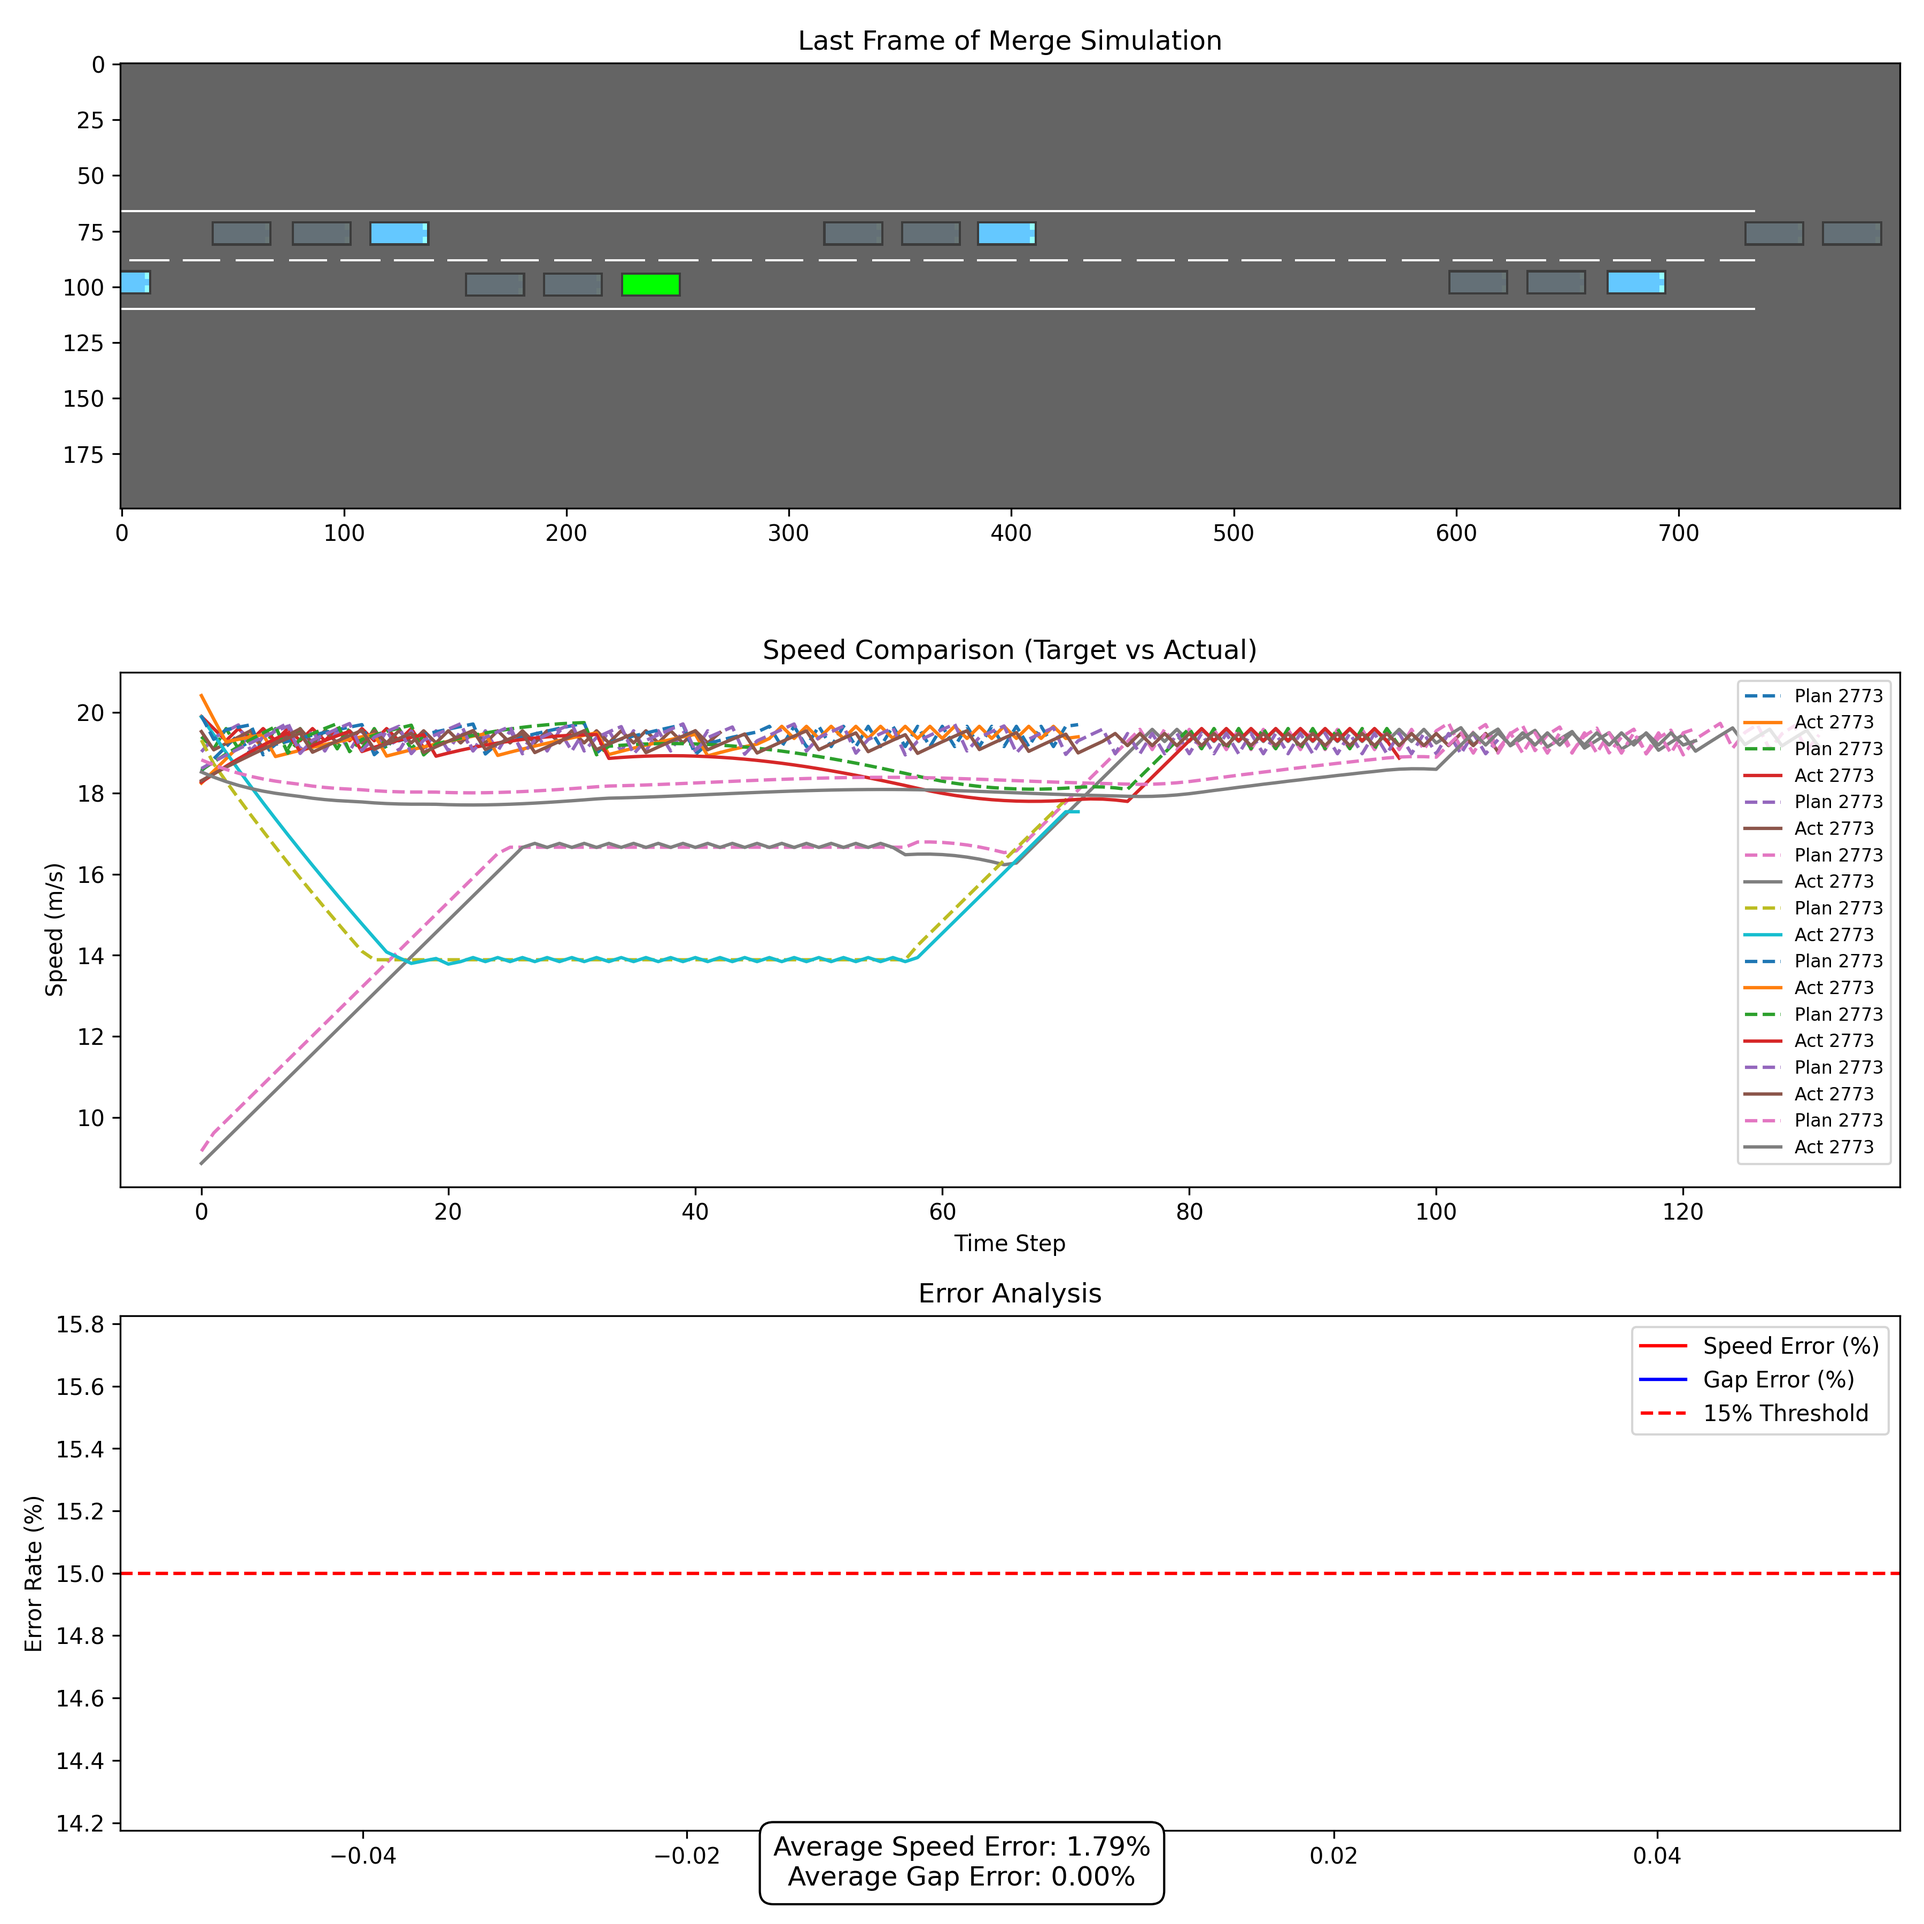
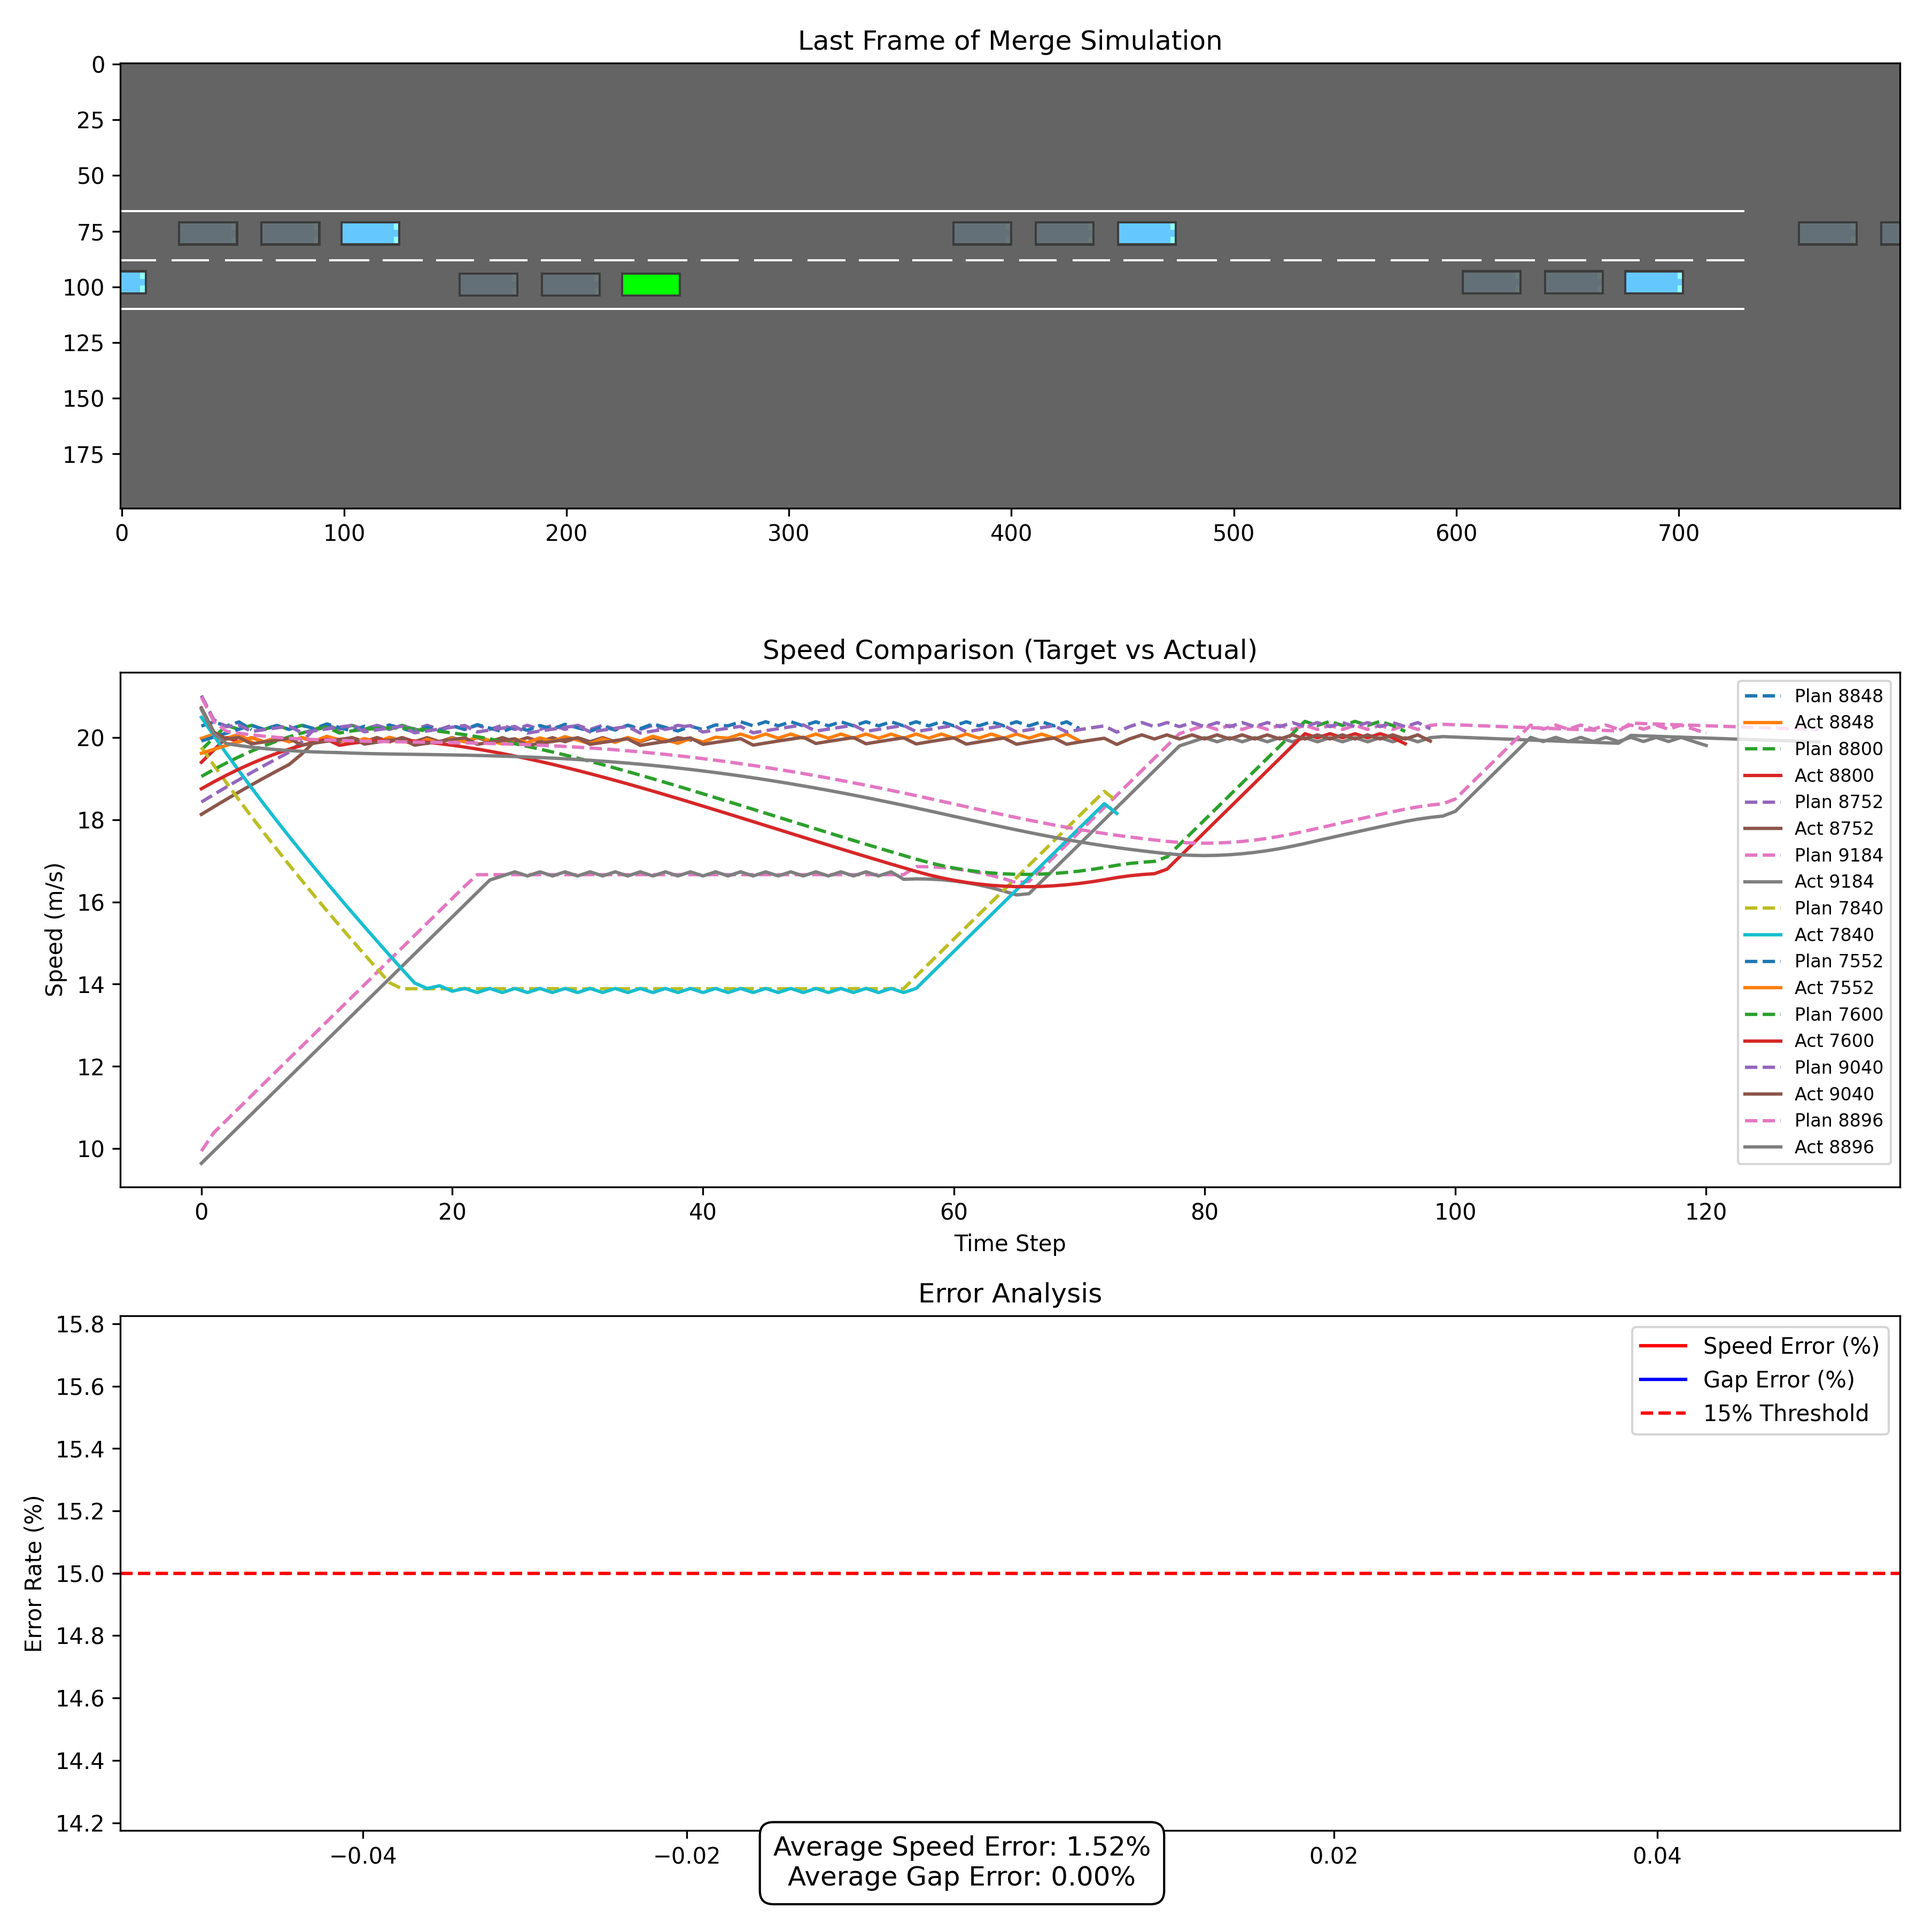
视频输出功能，车道随机功能

diff --git a/main.py b/main.py
@@ -4,6 +4,7 @@ from controller import RoadsideController
 import matplotlib.pyplot as plt
 import imageio
 from highway_env.envs.merge_v1 import MergeEnvV1
+import os
 
 def run_simulation():
     env = gymnasium.make(
@@ -31,7 +32,13 @@ def run_simulation():
         }
     )
 
+    video_folder = os.path.join(os.path.dirname(__file__), "videos")
     env.unwrapped.__class__ = MergeEnvV1
+    env = gymnasium.wrappers.RecordVideo(
+        env,
+        video_folder = video_folder,
+        episode_trigger=lambda episode_id: True
+    )
     obs, info = env.reset()
 
     ego_vehicle = env.unwrapped.vehicle
@@ -91,8 +98,8 @@ def run_simulation():
             planned = [v[1] if isinstance(v, tuple) else v for v in history['planned_speeds'][vehicle_id]]
             actual = [v[1] if isinstance(v, tuple) else v for v in history['actual_speeds'][vehicle_id]]
             t = list(range(len(planned)))
-            axes[1].plot(t, planned, '--', label=f"Plan {str(vehicle_id)[:4]}")
-            axes[1].plot(t[:len(actual)], actual, '-', label=f"Act {str(vehicle_id)[:4]}")
+            axes[1].plot(t, planned, '--', label=f"Plan {str(vehicle_id)[-4:]}")
+            axes[1].plot(t[:len(actual)], actual, '-', label=f"Act {str(vehicle_id)[-4:]}")
     axes[1].legend(loc='upper right', fontsize=8)
 
     # 3. 误差分析
@@ -119,6 +126,8 @@ def run_simulation():
     plt.savefig("merge_analysis.png", dpi=300)
     plt.show()
 
+    env.close()
+    
     print(f"Simulation completed with {len(frames)} frames.")
     print(f"Average Speed Error: {avg_speed_error:.2f}%")
     print(f"Average Gap Error: {avg_gap_error:.2f}%")

diff --git a/highway_env/envs/merge_v1.py b/highway_env/envs/merge_v1.py
@@ -15,18 +15,16 @@ class MergeEnvV1(MergeEnv):
         road.vehicles.append(ego_vehicle)
         ego_vehicle.color = (0, 255, 0)
         # 主干道车辆，速度范围70~90km/h
-        main_positions = [390, 350, 300,260,220 ,190, 150, 120, 90, 50, 30, 5]  # 可根据需要调整数量和分布
+        main_positions = [390, 350, 300, 260, 220, 190, 150, 120, 90, 50, 30, 5]  # 可根据需要调整数量和分布
         i = 0
         for position in main_positions:
-            #如果i是基数，那么lane为0，否则lane为1
-            if i % 2 == 0:
-                lane = road.network.get_lane(("a", "b", 0))
-            else:
-                lane = road.network.get_lane(("a", "b", 1))
+            # 新增：随机选择lane为0或1
+            lane_index = self.np_random.integers(0, 2)
+            lane = road.network.get_lane(("a", "b", lane_index))
             pos = lane.position(position + self.np_random.uniform(-5, 5), 0)
             speed = self.np_random.uniform(65, 75) / 3.6  # 70~90 km/h
             road.vehicles.append(other_vehicles_type(road, pos, speed=speed))
-            i+=1
+            i += 1
         self.vehicle = ego_vehicle
 
     def step(self, action):
